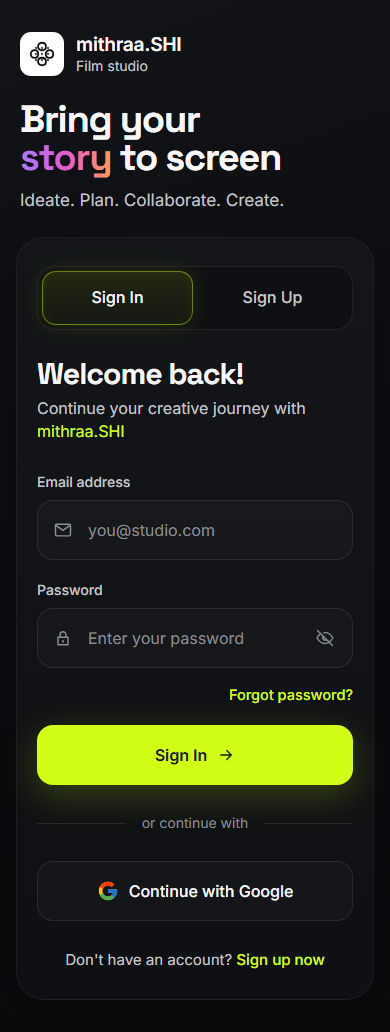
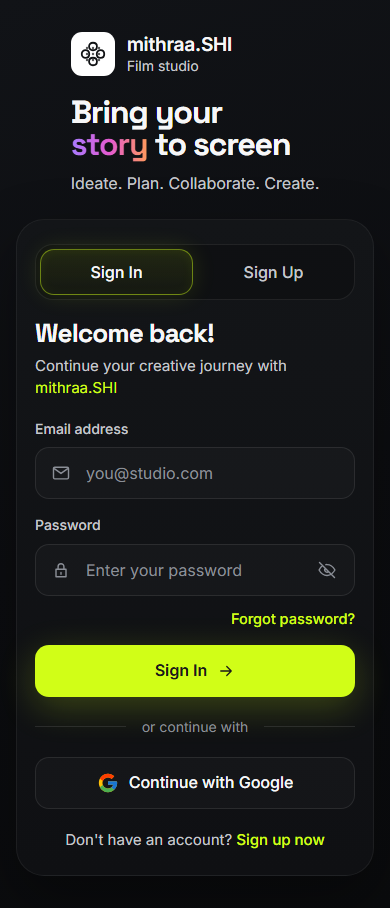
fix(auth): compact, overflow-safe sign-in and sign-up layout
- Frame is a grid with minmax(0, …) tracks, capped at 1180px; the form
  column is at most 500px (about 400px of usable form width).
- Poster stage uses an aspect ratio instead of a fixed height, so the
  percentage-sized posters keep their shape at every width; the ridge SVG
  no longer reaches 144px into the form column.
- The card wraps long unbroken text (echoed emails) instead of widening
  the page at 320px.
- Smaller inputs, buttons, tabs, headings and gaps: sign-in fits 1280x800.
- Responsive e2e at 9 widths: document overflow, frame/card/control
  bounds, controls not covered, poster stage bounds and shape, mobile
  tabs, 200% zoom, long text. Review screenshots refreshed.

diff --git a/e2e/visual.spec.ts b/e2e/visual.spec.ts
@@ -1,13 +1,19 @@
-import { test, expect } from "@playwright/test";
+import { test, expect, type Page } from "@playwright/test";
 
 // Responsive checks for the auth screens. Screenshots land in test-results/ and are copied to docs by hand.
 const VIEWPORTS = [
-  { name: "desktop", width: 1536, height: 1024 },
+  { name: "large", width: 1920, height: 1080 },
+  { name: "desktop", width: 1440, height: 900 },
   { name: "laptop", width: 1280, height: 800 },
-  { name: "tablet", width: 820, height: 1180 },
+  { name: "small-laptop", width: 1024, height: 768 },
+  { name: "tablet", width: 768, height: 1024 },
+  { name: "large-mobile", width: 430, height: 932 },
   { name: "mobile", width: 390, height: 844 },
+  { name: "mobile-375", width: 375, height: 667 },
   { name: "small", width: 320, height: 640 },
 ];
+
+const overflow = (page: Page) => page.evaluate(() => document.documentElement.scrollWidth - document.documentElement.clientWidth);
 
 for (const vp of VIEWPORTS) {
   for (const path of ["/login", "/signup"]) {
@@ -18,13 +24,85 @@ for (const vp of VIEWPORTS) {
       await expect(page.getByRole("button", { name: "Continue with Google" })).toBeVisible();
       // only Google: no decorative or dead provider buttons
       await expect(page.getByRole("button", { name: /apple|facebook|github/i })).toHaveCount(0);
-      expect(await page.evaluate(() => document.documentElement.scrollWidth - document.documentElement.clientWidth), "horizontal overflow").toBeLessThanOrEqual(0);
-      // touch targets
-      for (const b of await page.locator("form button, input:not([type=hidden])").all()) {
-        const box = await b.boundingBox();
-        if (box) expect(box.height, await b.evaluate((e) => e.outerHTML.slice(0, 60))).toBeGreaterThanOrEqual(40);
+      expect(await overflow(page), "horizontal overflow").toBeLessThanOrEqual(0);
+
+      // frame and card stay inside the viewport; the form keeps a readable width
+      const frame = (await page.locator(".auth-frame").boundingBox())!;
+      const card = (await page.locator(".auth-card").boundingBox())!;
+      expect(frame.x).toBeGreaterThanOrEqual(0);
+      expect(frame.x + frame.width).toBeLessThanOrEqual(vp.width);
+      expect(card.x).toBeGreaterThanOrEqual(frame.x);
+      expect(card.x + card.width).toBeLessThanOrEqual(frame.x + frame.width + 0.5);
+      expect(card.width, "card max width").toBeLessThanOrEqual(500);
+
+      // every control sits inside the card, is tall enough to tap, and is the topmost element at its centre
+      for (const c of await page.locator(".auth-card :is(a, button, input:not([type=hidden]))").all()) {
+        const box = (await c.boundingBox())!;
+        const what = await c.evaluate((e) => e.outerHTML.slice(0, 60));
+        expect(box.x, what).toBeGreaterThanOrEqual(card.x - 0.5);
+        expect(box.x + box.width, what).toBeLessThanOrEqual(card.x + card.width + 0.5);
+        if (await c.evaluate((e) => e.tagName !== "A")) expect(box.height, what).toBeGreaterThanOrEqual(40);
+        await c.scrollIntoViewIfNeeded();
+        expect(await c.evaluate((e) => {
+          const r = e.getClientRects()[0]; // first line box: a wrapped link's bounding box centre can fall between its lines
+          const hit = document.elementFromPoint(r.x + r.width / 2, r.y + r.height / 2);
+          return !!hit && (e === hit || e.contains(hit));
+        }), `${what} is covered`).toBe(true);
+      }
+
+      // poster art: shown only beside the form, kept inside the brand column at a fixed shape
+      const stage = page.locator("figure.auth-poster").first().locator("..");
+      if (vp.width >= 1024) {
+        await expect(stage).toBeVisible();
+        const s = (await stage.boundingBox())!;
+        const brand = (await page.locator(".auth-frame > section").first().boundingBox())!;
+        expect(s.x).toBeGreaterThanOrEqual(brand.x);
+        expect(s.x + s.width).toBeLessThanOrEqual(brand.x + brand.width);
+        expect(s.x + s.width, "posters clear of the form").toBeLessThanOrEqual(card.x);
+        expect(s.width / s.height).toBeCloseTo(8 / 3, 1);
+      } else {
+        await expect(stage).toBeHidden();
       }
       await page.screenshot({ path: info.outputPath(`${path.slice(1)}-${vp.name}.png`), fullPage: true });
     });
   }
 }
+
+test("laptop sign-in fits without scrolling", async ({ page }) => {
+  await page.setViewportSize({ width: 1280, height: 800 });
+  await page.goto("/login");
+  expect(await page.evaluate(() => document.documentElement.scrollHeight)).toBeLessThanOrEqual(800);
+});
+
+test("mobile tabs switch between sign in and sign up", async ({ page }) => {
+  await page.setViewportSize({ width: 375, height: 667 });
+  await page.goto("/login");
+  const tabs = page.getByRole("navigation", { name: "Account" });
+  await tabs.getByRole("link", { name: "Sign Up" }).click();
+  await expect(page).toHaveURL(/\/signup$/);
+  await expect(tabs.getByRole("link", { name: "Sign Up" })).toHaveAttribute("aria-current", "page");
+  await tabs.getByRole("link", { name: "Sign In" }).click();
+  await expect(page).toHaveURL(/\/login$/);
+});
+
+test("long unbroken text in the card wraps instead of widening the page", async ({ page }) => {
+  // the check-your-email screen echoes the submitted address back
+  await page.setViewportSize({ width: 320, height: 640 });
+  await page.goto("/login");
+  await page.locator(".auth-card header p").evaluate((p) => (p.textContent = `${"a".repeat(80)}@${"b".repeat(60)}.studio`));
+  await page.locator("form").first().evaluate((f) => f.insertAdjacentHTML("beforebegin", `<p role="alert">${"x".repeat(200)}</p>`));
+  expect(await overflow(page)).toBeLessThanOrEqual(0);
+});
+
+test("200% zoom keeps the page inside the viewport", async ({ browser }) => {
+  // 1280px laptop at 200% zoom is a 640 CSS px viewport at 2x density
+  const page = await browser.newPage({ viewport: { width: 640, height: 400 }, deviceScaleFactor: 2 });
+  for (const path of ["/login", "/signup"]) {
+    await page.goto(path);
+    expect(await overflow(page), path).toBeLessThanOrEqual(0);
+    const google = page.getByRole("button", { name: "Continue with Google" });
+    await google.scrollIntoViewIfNeeded();
+    await expect(google).toBeInViewport();
+  }
+  await page.close();
+});

diff --git a/components/auth/forms.tsx b/components/auth/forms.tsx
@@ -11,7 +11,7 @@ function Heading({ title, children }: { title: ReactNode; children: ReactNode })
   return (
     <header className="flex flex-col gap-2">
       <h1 className="auth-title">{title}</h1>
-      <p className="text-[16px] text-[var(--ink-2)] sm:text-[17px]">{children}</p>
+      <p className="text-[15px] text-[var(--ink-2)] sm:text-[16px]">{children}</p>
     </header>
   );
 }
@@ -24,13 +24,13 @@ export function LoginForm({ next, notice }: { next: string; notice?: string }) {
   const [state, action] = useActionState(signIn, {} as FormState);
   const error = state.error ?? (state.fields ? undefined : notice);
   return (
-    <div className="flex flex-col gap-7">
+    <div className="flex flex-col gap-5">
       <AuthTabs active="login" next={next} />
       <Heading title="Welcome back!">
         Continue your creative journey with <span className="text-[var(--brand)]">mithraa.SHI</span>
       </Heading>
       {error && <Alert>{error}</Alert>}
-      <form action={action} noValidate className="flex flex-col gap-5">
+      <form action={action} noValidate className="flex flex-col gap-4">
         <input type="hidden" name="next" value={next} />
         <Field name="email" label="Email address" icon="mail" type="email" autoComplete="email" placeholder="you@studio.com" defaultValue={state.email} error={state.fields?.email} />
         <Field name="password" label="Password" icon="lock" type="password" autoComplete="current-password" placeholder="Enter your password" error={state.fields?.password} />
@@ -56,7 +56,7 @@ export function SignupForm({ next }: { next: string }) {
   const [state, action] = useActionState(signUp, {} as FormState);
   if (state.sent) {
     return (
-      <div className="flex flex-col gap-7" data-testid="verify-pending">
+      <div className="flex flex-col gap-5" data-testid="verify-pending">
         <Heading title="Check your email">
           We sent a confirmation link to <strong className="text-[var(--ink)]">{state.email}</strong>. Open it on this device to finish creating your
           account. Your account stays unconfirmed until you do.
@@ -72,7 +72,7 @@ export function SignupForm({ next }: { next: string }) {
     );
   }
   return (
-    <div className="flex flex-col gap-7">
+    <div className="flex flex-col gap-5">
       <AuthTabs active="signup" next={next} />
       <Heading
         title={
@@ -84,7 +84,7 @@ export function SignupForm({ next }: { next: string }) {
         Join mithraa.SHI and start making films with AI agents and your crew.
       </Heading>
       {state.error && <Alert>{state.error}</Alert>}
-      <form action={action} noValidate className="flex flex-col gap-5">
+      <form action={action} noValidate className="flex flex-col gap-4">
         <input type="hidden" name="next" value={next} />
         <Field name="name" label="Full name" icon="user" autoComplete="name" placeholder="Enter your full name" defaultValue={state.name} error={state.fields?.name} />
         <Field name="email" label="Email" icon="mail" type="email" autoComplete="email" placeholder="you@studio.com" defaultValue={state.email} error={state.fields?.email} />
@@ -106,7 +106,7 @@ export function SignupForm({ next }: { next: string }) {
 export function ForgotForm() {
   const [state, action] = useActionState(requestPasswordReset, {} as FormState);
   return (
-    <div className="flex flex-col gap-7">
+    <div className="flex flex-col gap-5">
       <Heading title="Reset your password">Enter the email you sign in with and we&apos;ll send you a link to choose a new password.</Heading>
       {state.sent ? (
         <Alert tone="ok">
@@ -115,7 +115,7 @@ export function ForgotForm() {
       ) : (
         <>
           {state.error && <Alert>{state.error}</Alert>}
-          <form action={action} noValidate className="flex flex-col gap-5">
+          <form action={action} noValidate className="flex flex-col gap-4">
             <Field name="email" label="Email address" icon="mail" type="email" autoComplete="email" placeholder="you@studio.com" defaultValue={state.email} error={state.fields?.email} />
             <Submit pendingText="Sending…">Send reset link</Submit>
           </form>
@@ -134,10 +134,10 @@ export function ForgotForm() {
 export function ResetForm() {
   const [state, action] = useActionState(updatePassword, {} as FormState);
   return (
-    <div className="flex flex-col gap-7">
+    <div className="flex flex-col gap-5">
       <Heading title="Choose a new password">You opened a valid reset link. Pick a new password for your account.</Heading>
       {state.error && <Alert>{state.error}</Alert>}
-      <form action={action} noValidate className="flex flex-col gap-5">
+      <form action={action} noValidate className="flex flex-col gap-4">
         <Field name="password" label="New password" icon="lock" type="password" autoComplete="new-password" placeholder="Create a strong password" minLength={8} hint={PASSWORD_HINT} error={state.fields?.password} />
         <Field name="confirm" label="Confirm new password" icon="lock" type="password" autoComplete="new-password" placeholder="Type it again" error={state.fields?.confirm} />
         <Submit pendingText="Saving…">Save password</Submit>

diff --git a/app/(auth)/layout.tsx b/app/(auth)/layout.tsx
@@ -33,37 +33,39 @@ function Brand() {
 
 export default function AuthLayout({ children }: { children: ReactNode }) {
   return (
-    <div className="auth-page flex min-h-screen items-center justify-center p-0 sm:p-6 lg:p-8">
-      <div className="auth-frame relative flex w-full max-w-[1400px] flex-col overflow-hidden lg:flex-row">
+    <div className="auth-page flex min-h-screen items-center justify-center p-0 sm:p-6">
+      {/* grid tracks are minmax(0, …) so neither side can push the frame wider than the viewport */}
+      <div className="auth-frame relative flex w-full min-w-0 max-w-[1180px] flex-col overflow-hidden lg:grid lg:grid-cols-[minmax(0,1fr)_minmax(0,500px)]">
         {/* brand side: full composition on desktop, just the mark and headline below lg */}
-        <section className="relative flex w-full flex-col gap-6 self-center px-5 pb-2 pt-8 sm:max-w-[640px] sm:px-10 sm:pt-10 lg:w-[54%] lg:max-w-none lg:gap-0 lg:p-14 lg:pb-12">
+        <section className="relative flex min-w-0 flex-col gap-5 self-center px-5 pb-2 pt-8 sm:max-w-[640px] sm:px-10 sm:pt-10 lg:max-w-none lg:gap-0 lg:self-stretch lg:p-10 lg:pb-8">
           <div className="auth-glow" aria-hidden />
           <Brand />
-          <p className="auth-headline relative lg:mt-14">
+          <p className="auth-headline relative lg:mt-8">
             Bring your
             <br />
             <span className="auth-gradient-text">story</span> to screen
           </p>
-          <p className="relative -mt-3 text-[17px] text-[var(--ink-2)] lg:mt-4 lg:text-[21px]">Ideate. Plan. Collaborate. Create.</p>
+          <p className="relative -mt-2 text-[16px] text-[var(--ink-2)] lg:mt-3 lg:text-[19px]">Ideate. Plan. Collaborate. Create.</p>
 
-          <ul className="relative mt-10 hidden flex-col gap-4 lg:flex">
+          <ul className="relative mb-6 mt-7 hidden flex-col gap-2.5 lg:flex">
             {FEATURES.map((f) => (
               <li key={f.title} className="flex items-center gap-4">
-                <span className="flex h-[50px] w-[50px] shrink-0 items-center justify-center rounded-[13px] border border-white/[0.06]" style={{ background: `${f.tint}1f`, color: f.tint }}>
+                <span className="flex h-11 w-11 shrink-0 items-center justify-center rounded-[13px] border border-white/[0.06]" style={{ background: `${f.tint}1f`, color: f.tint }}>
                   <svg width="22" height="22" viewBox="0 0 24 24" fill="none" stroke="currentColor" strokeWidth="1.8" strokeLinecap="round" strokeLinejoin="round" aria-hidden>
                     <path d={f.d} />
                   </svg>
                 </span>
-                <span className="flex flex-col">
-                  <span className="text-[15.5px] font-medium text-[var(--ink)]">{f.title}</span>
-                  <span className="text-[14px] text-[var(--ink-2)] opacity-80">{f.sub}</span>
+                <span className="flex min-w-0 flex-col">
+                  <span className="text-[15px] font-medium text-[var(--ink)]">{f.title}</span>
+                  <span className="text-[13.5px] text-[var(--ink-2)] opacity-80">{f.sub}</span>
                 </span>
               </li>
             ))}
           </ul>
 
-          <div className="relative mt-auto hidden h-[250px] w-full max-w-[640px] pt-10 lg:block xl:h-[280px]" aria-hidden>
-            <svg className="absolute -left-14 bottom-[18%] h-[150px] w-[calc(100%+200px)] text-[#08090b]" viewBox="0 0 800 200" preserveAspectRatio="none">
+          {/* aspect ratio, not a fixed height, so the % sized posters keep their shape at every column width */}
+          <div className="relative mt-auto hidden aspect-[8/3] w-full max-w-[500px] lg:block" aria-hidden>
+            <svg className="absolute -left-10 right-0 bottom-[18%] h-[55%] text-[#08090b]" viewBox="0 0 800 200" preserveAspectRatio="none">
               <path d="M0 140 L90 95 L150 120 L240 70 L330 115 L420 60 L520 105 L600 40 L700 95 L800 55 V200 H0Z" fill="currentColor" />
             </svg>
             {POSTERS.map((p) => (
@@ -80,8 +82,8 @@ export default function AuthLayout({ children }: { children: ReactNode }) {
         </section>
 
         {/* form side */}
-        <section className="relative flex flex-1 items-start justify-center px-4 pb-8 pt-4 sm:px-10 sm:pb-10 lg:items-stretch lg:p-6 lg:pl-0">
-          <div className="auth-card w-full max-w-[560px] lg:flex lg:max-w-none lg:flex-col lg:justify-center">
+        <section className="relative flex min-w-0 items-start justify-center px-4 pb-8 pt-4 sm:px-10 sm:pb-10 lg:items-stretch lg:p-5 lg:pl-0">
+          <div className="auth-card w-full min-w-0 max-w-[500px] lg:flex lg:max-w-none lg:flex-col lg:justify-center">
             <Suspense fallback={<div className="min-h-[520px]" aria-busy="true" />}>{children}</Suspense>
           </div>
         </section>

diff --git a/app/globals.css b/app/globals.css
@@ -471,7 +471,7 @@ body {
 .auth-headline {
   font-family: var(--font-title), ui-sans-serif, sans-serif;
   font-weight: 700;
-  font-size: clamp(38px, 4.6vw, 66px);
+  font-size: clamp(32px, 3.8vw, 52px);
   line-height: 1;
   letter-spacing: -0.035em;
   color: var(--ink);
@@ -493,24 +493,25 @@ body {
   border: 1px solid var(--rule);
   background: linear-gradient(180deg, #131518 0%, #0f1013 100%);
   box-shadow: 0 24px 60px rgba(0, 0, 0, 0.35);
-  padding: 28px 20px;
+  padding: 24px 18px;
+  overflow-wrap: anywhere; /* a long email echoed back must wrap, not widen the page */
 }
 @media (min-width: 640px) {
-  .auth-card { padding: 44px 48px; }
+  .auth-card { padding: 36px 40px; }
 }
 @media (min-width: 1024px) {
-  .auth-card { padding: 52px 56px; }
+  .auth-card { padding: 32px 40px; }
 }
 .auth-title {
   font-family: var(--font-title), ui-sans-serif, sans-serif;
   font-weight: 700;
-  font-size: clamp(30px, 3vw, 38px);
+  font-size: clamp(26px, 2.6vw, 32px);
   line-height: 1.05;
   letter-spacing: -0.03em;
 }
 .auth-tab {
   display: flex;
-  min-height: 54px;
+  min-height: 46px;
   align-items: center;
   justify-content: center;
   border-radius: 14px;
@@ -529,8 +530,8 @@ body {
 }
 .auth-input {
   width: 100%;
-  height: 60px;
-  border-radius: 16px;
+  height: 52px;
+  border-radius: 14px;
   border: 1px solid rgba(255, 255, 255, 0.09);
   background: rgba(255, 255, 255, 0.025);
   padding: 0 16px 0 50px;
@@ -560,8 +561,8 @@ body {
   align-items: center;
   justify-content: center;
   gap: 10px;
-  min-height: 60px;
-  border-radius: 16px;
+  min-height: 52px;
+  border-radius: 14px;
   font-size: 16px;
   font-weight: 600;
   cursor: pointer;
